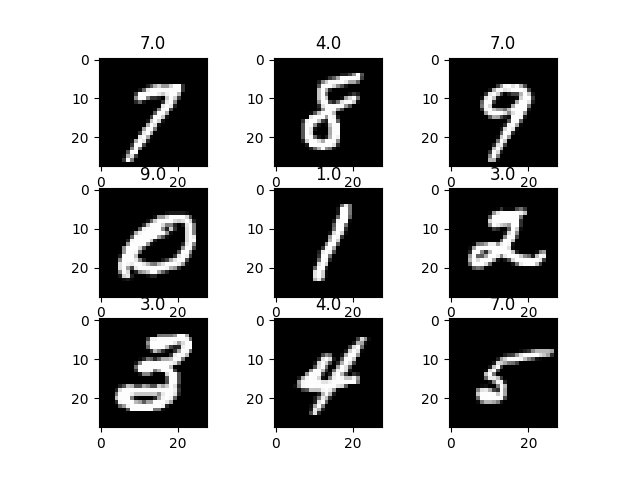
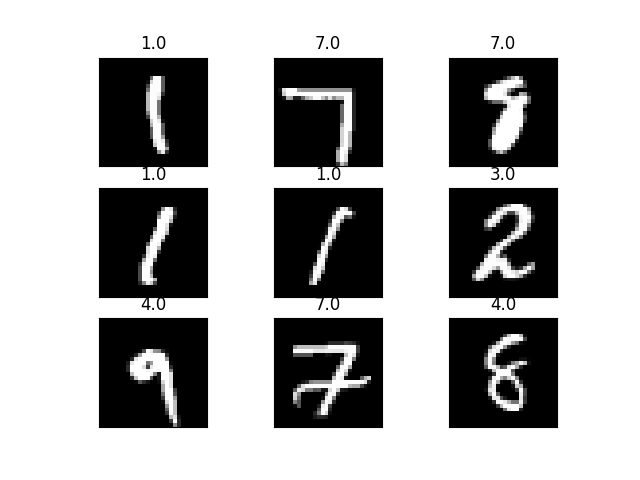
Well it's at least something

diff --git a/src/mnist_results/mnist_predict.py b/src/mnist_results/mnist_predict.py
@@ -12,7 +12,7 @@ from ffnn import FFNN
 from utils import split_and_scale, ReLU, leaky_ReLU
 
 out_dir = "../../doc/assets/"
-pickle_file = "network_relu.pickle"
+pickle_file = "network.pickle"
 
 with open("mnist_array_output.pickle", "rb") as f:
     X_train, X_test, y_train, y_test = pickle.load(f)
@@ -50,5 +50,6 @@ if do_plot:
         plt.subplot(330 + 1 + i)
         plt.imshow(X_test_imgs[j+i], cmap=plt.get_cmap('gray'))
         plt.title(y_predict_relu[j+i])
+        plt.xticks([]); plt.yticks([])
 
-    plt.savefig(os.path.join(out_dir, "nn_sigmoid_relu_plot.png"))
+    plt.savefig(os.path.join(out_dir, "nn_sigmoid_mnist_plot.png"))
